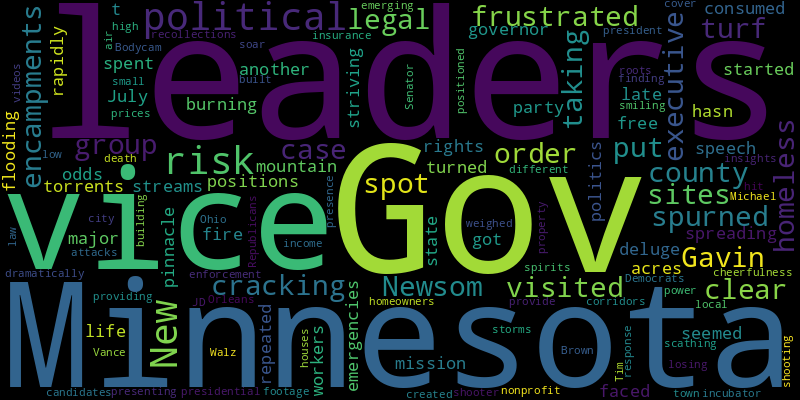
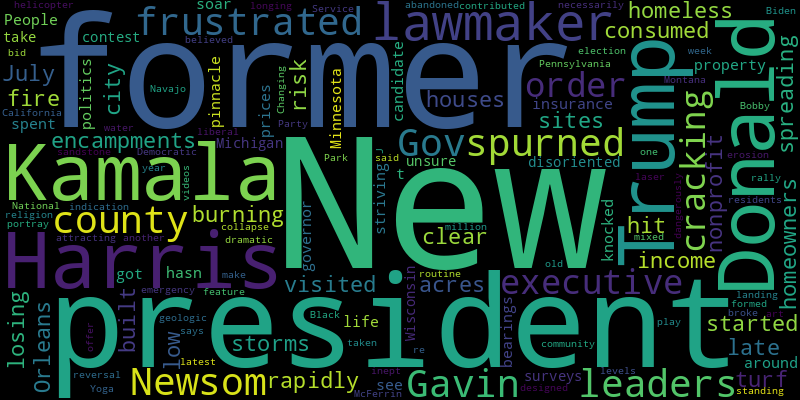
chore(bot): 💩 auto commit

diff --git a/README.md b/README.md
@@ -2,32 +2,34 @@
 Auto RSS New York Times and Generate Word Cloud
 
 ## New York Times Global News
-* The country’s prime minister, Benjamin Netanyahu, said he would send negotiators what leaders including President Biden called the presentation of a “final” cease-fire proposal.
-* After Hamas’s political leader was killed, some honored him in the Israeli-occupied West Bank, where a rival Palestinian faction is dominant.
-* Liverpool has a long history of protest. Residents continued that tradition this week, delivering a resounding message to anti-immigrant rioters: Not here.
-* Taylor Swift fans from around the world grappled with disappointment and fear after a terrorism plot derailed the Vienna dates of the Eras Tour.
-* Despite quick gains in the western Russian region of Kursk, analysts question whether Ukraine can maintain the momentum.
-* The Catalan separatist leader, who has been living in self-imposed exile since spearheading an illegal referendum on independence in 2017, vanished almost as quickly as he had surfaced this week.
-* The local government in the Russian region of Kursk declared a state of emergency as military analysts reported that Ukrainian forces had advanced several miles across the border.
-* A far-right movement fueled by disinformation has brought fear and violence to cities across England and in Northern Ireland. That has in turn prompted counterprotests.
-* Despite a declining birthrate that has alarmed the nation’s leaders, regulations in China prevent unmarried women from freezing their eggs.
-* Muhammad Yunus, as interim leader, faces the daunting task of restoring order in a country gripped by violence and uncertainty.
+* Israel said Hamas was using the school compound for military operations and cast doubt on the casualty tolls from Gaza.
+* Yet some in Russia were asking how it was even allowed to happen.
+* The Venezuelan authorities have launched a nationwide sweep, called Operation Knock-Knock, that is targeting anyone even perceived to be challenging the autocratic president’s re-election.
+* Garment exports lifted the country to new heights. But overreliance on that industry also helped bring down Prime Minister Sheikh Hasina.
+* An American pediatrician spent three weeks in one of Gaza’s last functioning hospitals. He shared a record of what he witnessed, including rare footage from inside the hospital, with The New York Times.
+* The twin-engine turboprop passenger aircraft crashed near São Paulo, killing all 61 people on board. Officials are investigating the cause.
+* The Ukrainian police said they were evacuating people, perhaps in anticipation of a retaliatory strike, but the goal of the military operation on Russian territory remained unclear.
+* This is how Mongolia provides basic medical services to its far-flung, semi-nomadic populations.
+* The city in northern England has a long history of protest. That tradition continued this week, with counterprotesters delivering a firm rejection of anti-immigrant violence.
+* The authorities said the 18-year-old was connected to the main suspect and had recently sworn allegiance to the Islamic State.
 
 ![Global](./global.png)
 ## New York Times United States News
 * Gov. Gavin Newsom, frustrated by county leaders who spurned his executive order cracking down on encampments, visited their turf to clear homeless sites.
-* The case put the legal group on the spot for taking positions on free speech and workers’ rights that seemed at odds with its mission.
 * The rapidly spreading fire has consumed over 427,000 acres since it started burning in late July.
-* The governor of Minnesota hasn’t spent his life striving for the pinnacle of politics. That is how he got there.
-* The state has faced repeated flooding emergencies, with mountain streams turned into torrents, and could be in for another deluge.
-* The major-party vice-presidential candidates — Gov. Tim Walz of Minnesota and Senator JD Vance of Ohio — are presenting dramatically different recollections of their small-town roots.
-* Democrats are smiling again, and so is a vice president who once weighed the political risks of cheerfulness. The high spirits are also providing air cover for scathing attacks on Republicans.
 * In New Orleans, low-income homeowners are at risk of losing houses built by the nonprofit as more storms hit the city and property insurance prices soar.
-* The shooting death of Michael Brown created a political incubator of emerging local leaders, some of whom are finding themselves in the corridors of power.
-* Bodycam videos and other footage provide new insights into the law enforcement response and presence at the building where the shooter was positioned.
+* The governor of Minnesota hasn’t spent his life striving for the pinnacle of politics. That is how he got there.
+* People around the former and would-be president see a candidate knocked off his bearings, disoriented by his new contest with Kamala Harris and unsure of how to take her on.
+* New surveys of Michigan, Wisconsin and Pennsylvania taken this week offer the latest indication of a dramatic reversal in standing for the Democratic Party since President Biden abandoned his re-election bid.
+* Yoga, laser art and Bobby McFerrin are attracting residents who are longing for a community — but not necessarily religion.
+* Donald J. Trump broke from his routine at a rally in Montana to play videos designed to portray Kamala Harris as inept and dangerously liberal.
+* There was a helicopter. It did make an emergency landing. But a former California lawmaker says Donald Trump has mixed up one Black lawmaker for another.
+* Changing water levels and erosion are believed to have contributed to the collapse of the geologic feature, which was formed from 190 million-year-old Navajo sandstone, the National Park Service said.
 
 ![US](./usnews.png)
 ## New York Times Asia News
+* Garment exports lifted the country to new heights. But overreliance on that industry also helped bring down Prime Minister Sheikh Hasina.
+* In the 1960s, he was among the first Westerners allowed into the country, and for decades he helped the rest of the world understand it.
 * The case, brought after Rappler was singled out by former President Rodrigo Duterte, was one of many facing the outlet and its co-founder, the Nobel laureate Maria Ressa.
 * The cheese scone is so essential to the New Zealand diet that it is almost impossible to find a cafe without a plate of them on the counter.
 * Stressing science education, China is outpacing other countries in research fields like battery chemistry, crucial to its lead in electric vehicles.
@@ -36,7 +38,5 @@ Auto RSS New York Times and Generate Word Cloud
 * Despite a declining birthrate that has alarmed the nation’s leaders, regulations in China prevent unmarried women from freezing their eggs.
 * The official warning came after a 7.1-magnitude temblor struck off the coast of southern Japan on Thursday.
 * Muhammad Yunus, as interim leader, faces the daunting task of restoring order in a country gripped by violence and uncertainty.
-* TSMC modeled its facility in Phoenix on one at home. But bringing the company’s complex manufacturing process to America has been a bigger challenge than it expected.
-* Plus, China’s quest for Olympic gold shifts gears.
 
 ![Asian](./asian.png)
